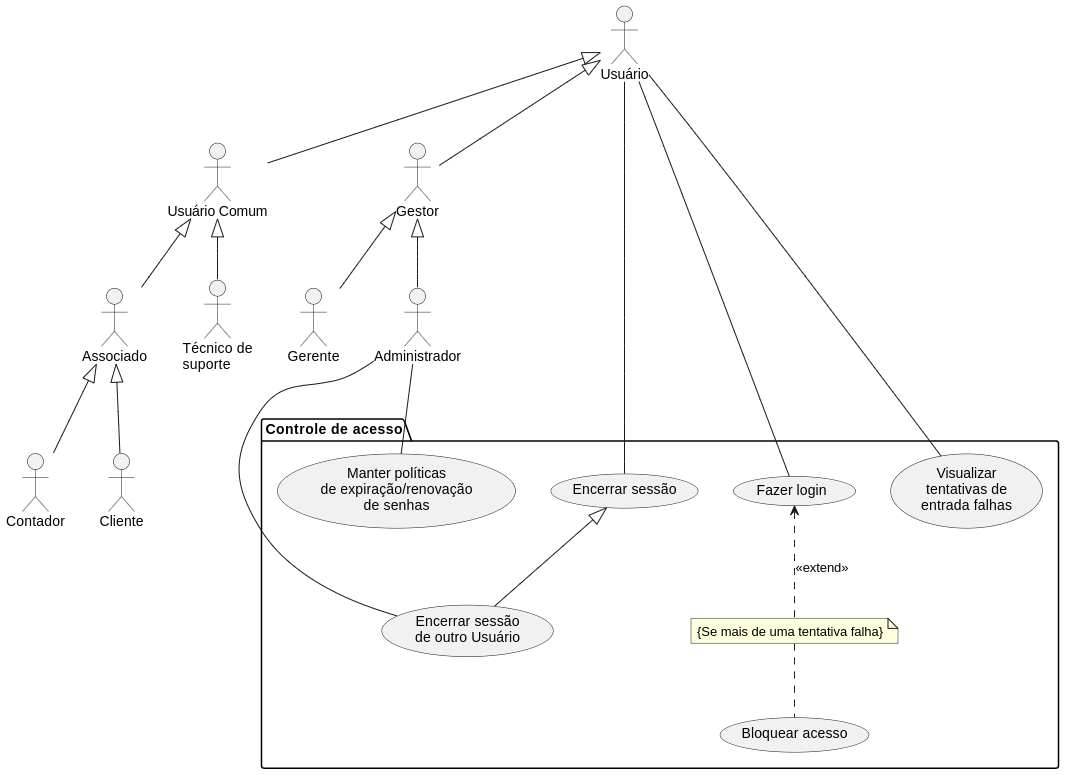
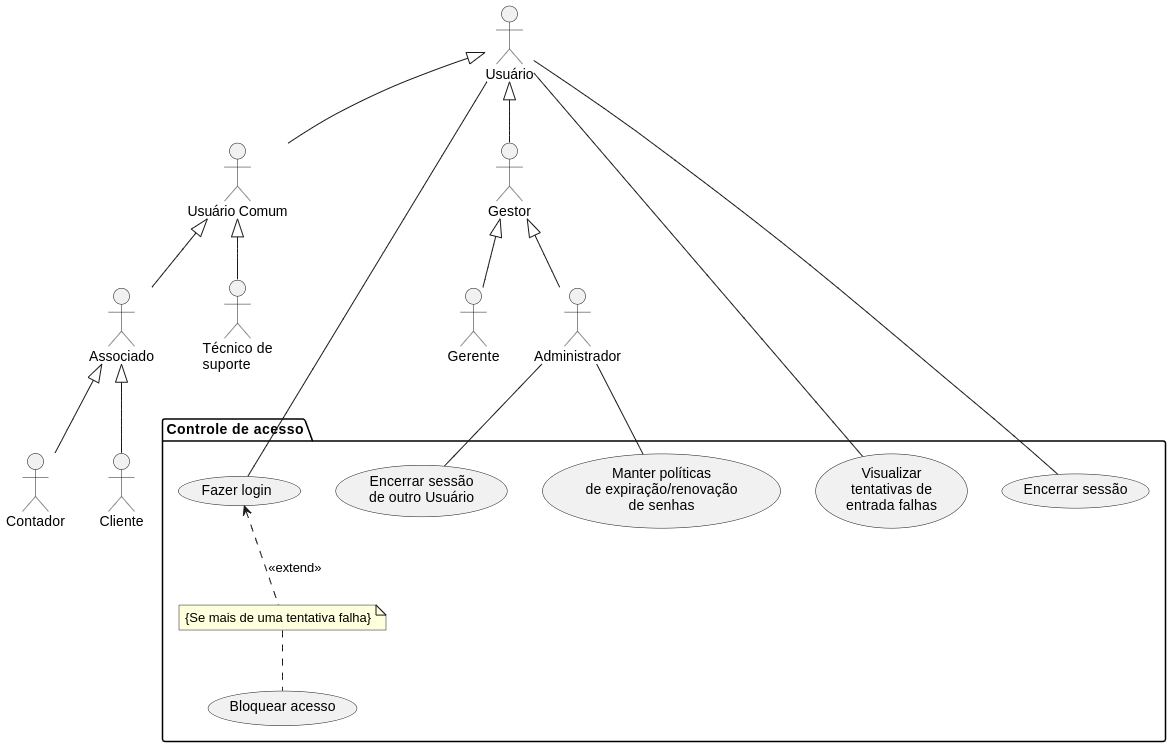
fix: remove relation from cda usecases logout

diff --git a/specs/usecases/cda/especificacao_encerrar_sessao_outro_usuario.md b/specs/usecases/cda/especificacao_encerrar_sessao_outro_usuario.md
@@ -4,7 +4,6 @@
       <td><strong>Caso de uso</strong></td>
       <td>
         <strong><span><a>UC4 - Encerrar sessão de outro usuário</a></span></strong>
-        <strong><p>(Herda de <a href="especificacao_encerrar_sessao.md">UC3</a>)</p></strong>
       </td>
     </tr>
     <tr>
